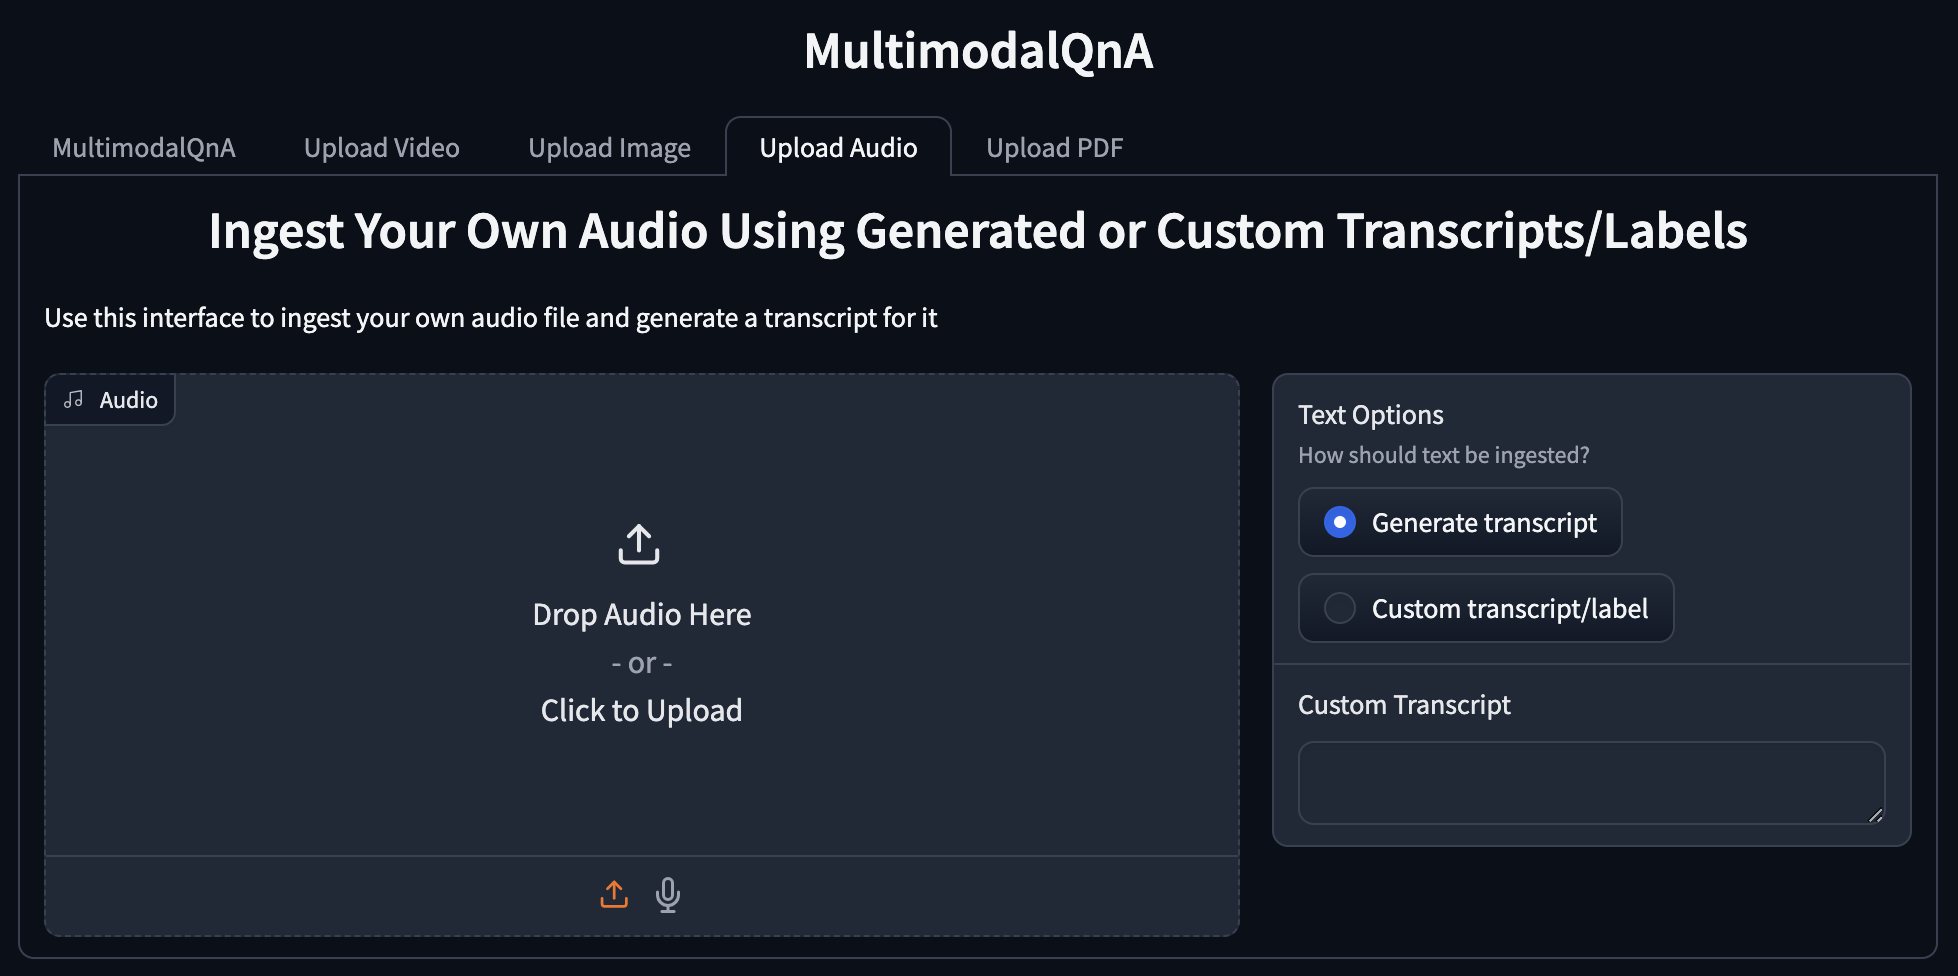
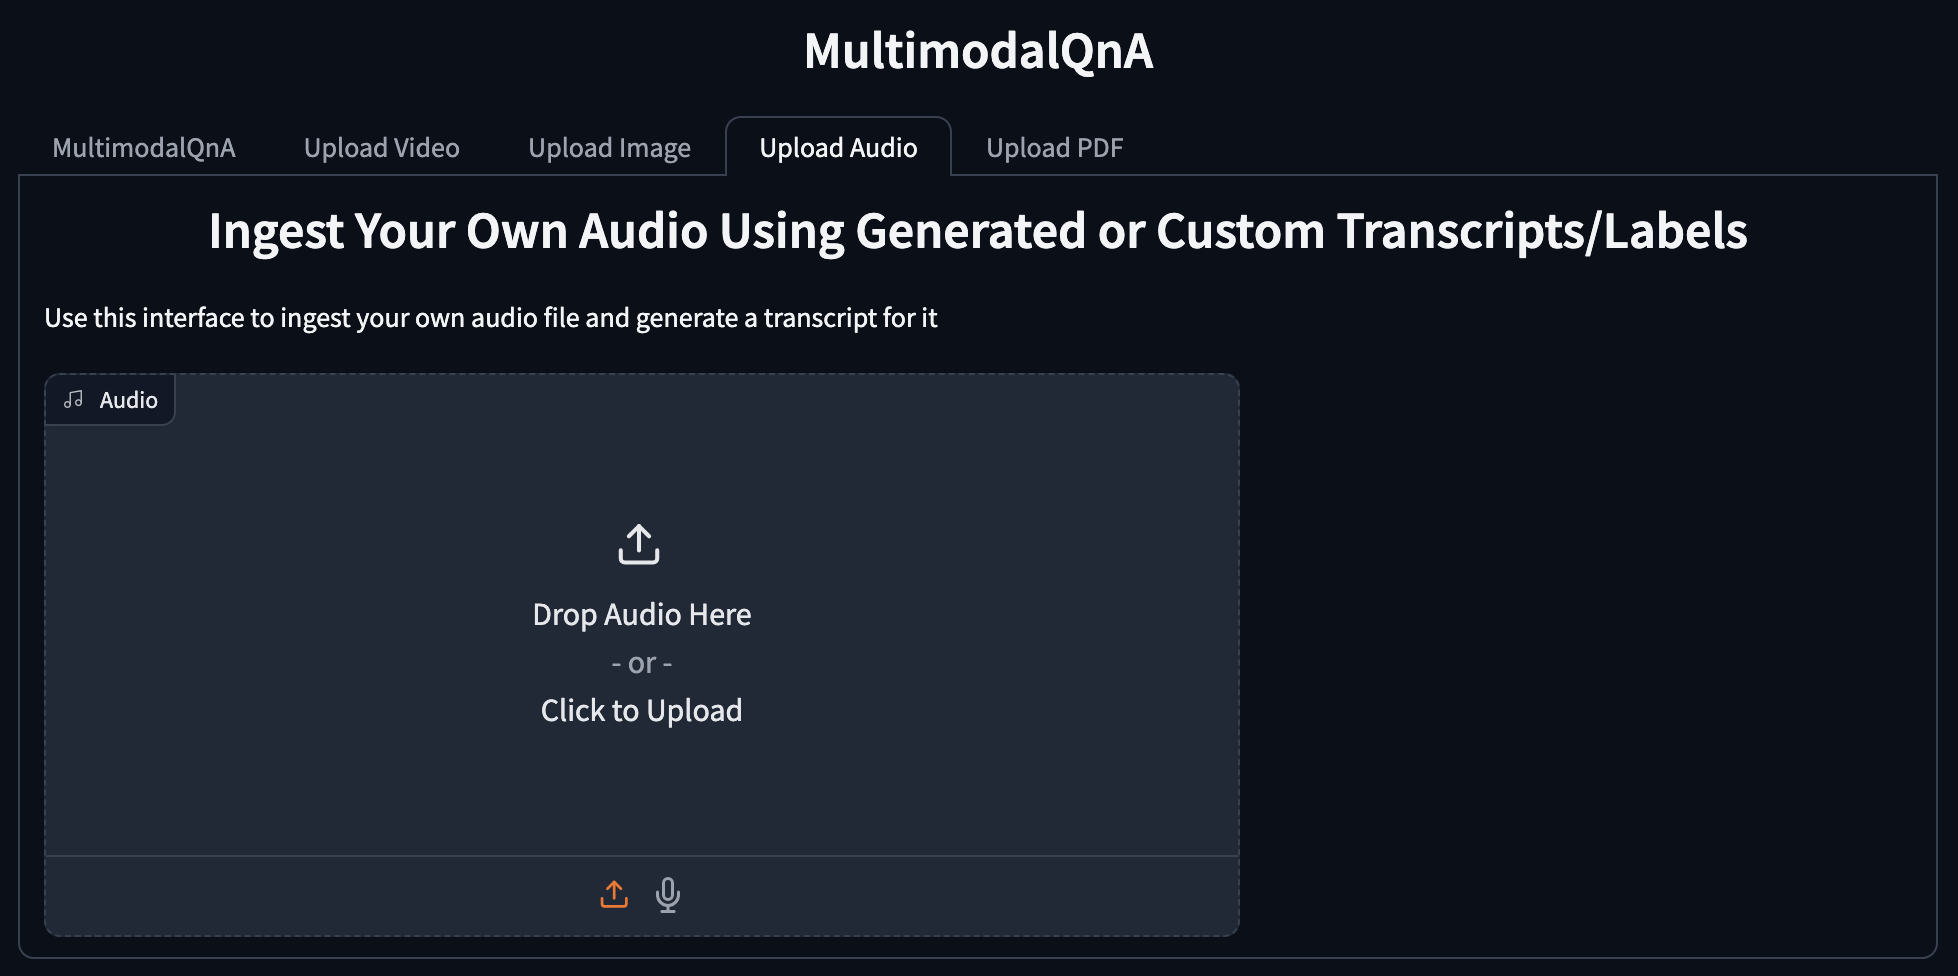
Improved audio ingestion UI description & mockup

Changed region(s): [[0.6231, 0.3689, 0.9969, 0.8914]]

diff --git a/community/rfcs/24-10-02-GenAIExamples-xxx-Image_and_Audio_Support_in_MultimodalQnA.md b/community/rfcs/24-10-02-GenAIExamples-xxx-Image_and_Audio_Support_in_MultimodalQnA.md
@@ -127,12 +127,12 @@ The existing UI shows two modes of video upload capability - with transcripts an
 We list each proposed change in detail below and then provide mockups of the new screens.
 
 #### UI Changes
-1. Modify the main chat screen with a dynamic media display area capable of supporting video, image, or audio results and resetting the type when the session is cleared.
+1. Modify the main chat screen with a dynamic media display area capable of supporting video, image, or audio results and adjusting automatically when a new type is returned by the server.
 1. Modify the query text box to allow multimodal file uploads in addition to text (likely with the gradio MultimodalTextBox element), expanding the query input to accept images and audio in addition to text.
 1. Simplify the tab titles and screen headings for increased clarity.
 1. Combine the two modes of video upload into one tab with radio buttons that enable the user to choose the correct ingestion endpoint for their videos.
 1. Add a new tab for image uploads with radio buttons allowing the user to choose between caption generation and custom label/caption, as well as a text box for uploading a custom label/caption.
-1. Add a new audio upload tab with radio buttons allowing the user to choose between transcript generation and custom label/caption, as well as a text box for uploading a custom label/caption.
+1. Add a new audio upload tab allowing the user to post audio files. The system will assume that the audio contains speech and generate a transcript by default, but this could be expanded to accommodate non-speech audio and/or optional custom labels in the future.
 1. Add a new tab for PDF uploads, which currently is envisioned as one endpoint without any input options.
 
 #### UI Mockups
